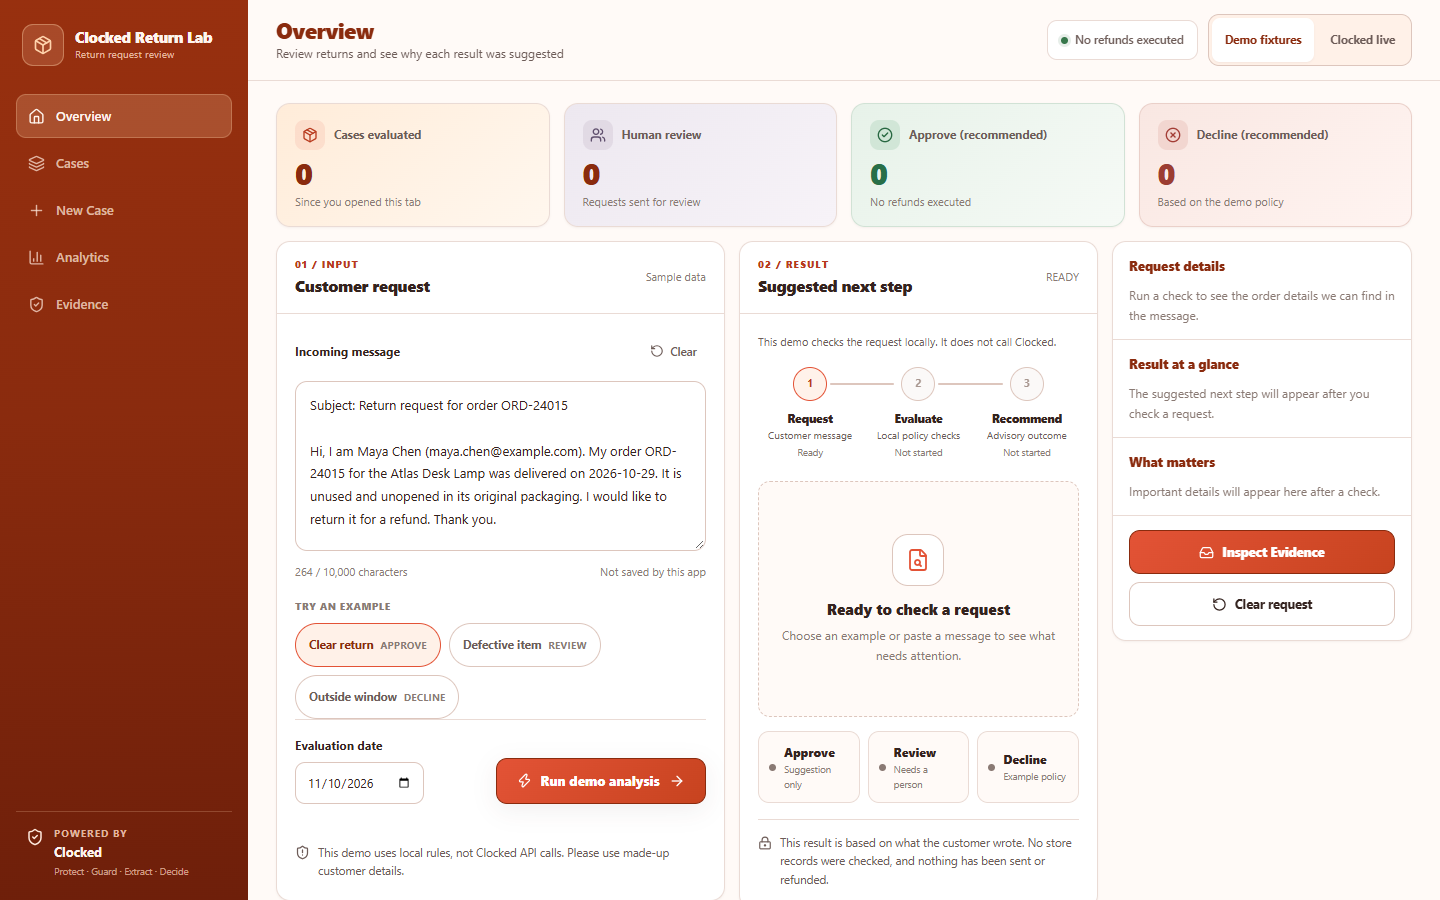
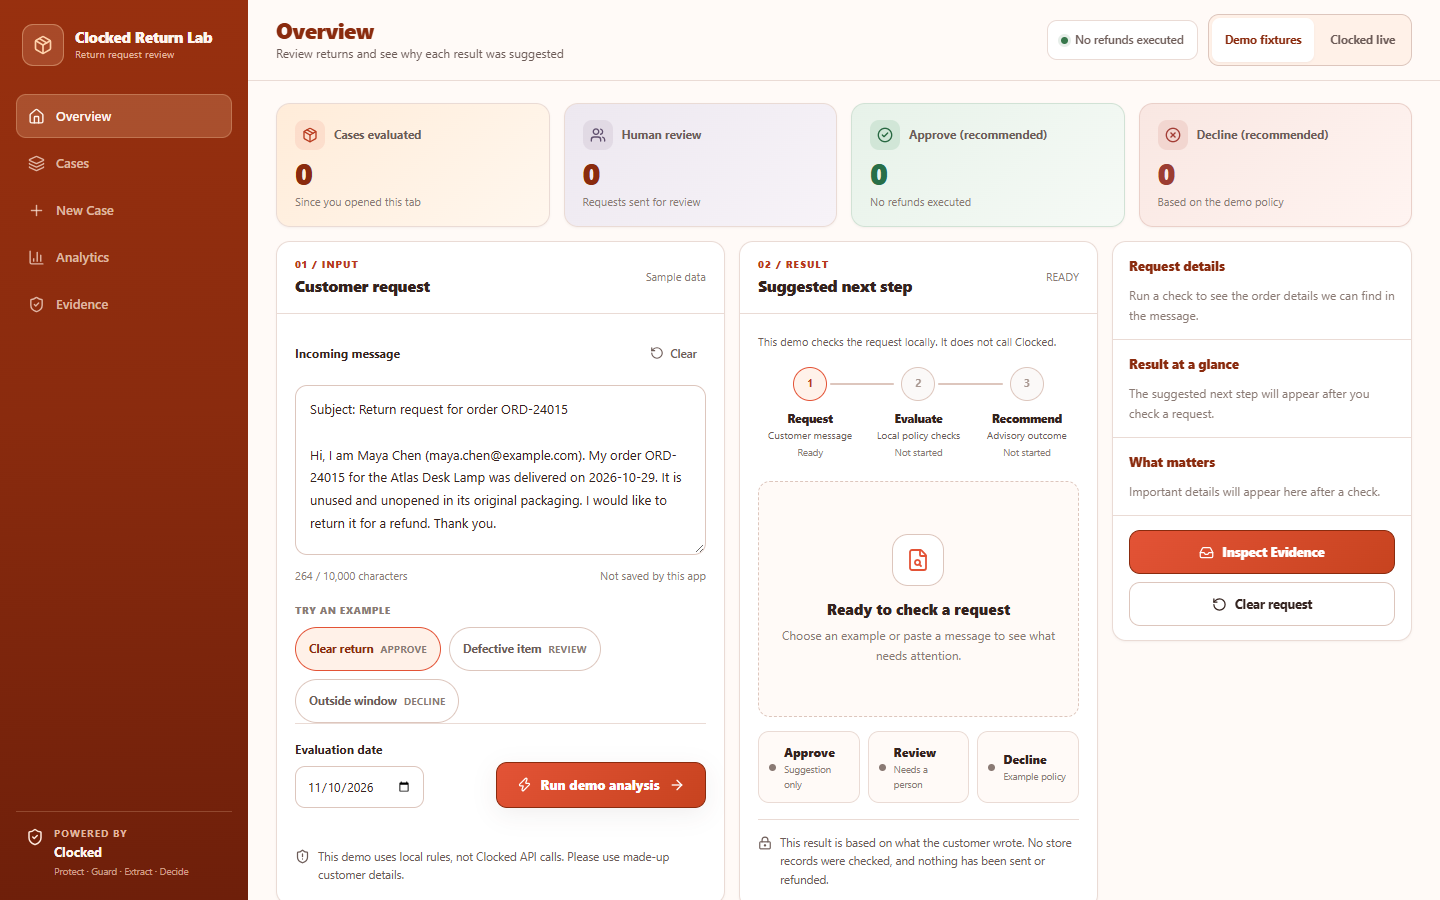
Read labelled requests from the shared table and fix final UI gaps
- Accept 'Request: <phrase>' when the value is a recognised refund request, matching the same phrase table used everywhere else.
- Raise the small Clear control to a 44px touch target and include it in the UI audit selector.
- Bring a failed analysis message into view so a blocked live request or server error cannot be missed.
- Refresh the release report, release notes and public screenshots for the verified build.

diff --git a/app/page.tsx b/app/page.tsx
@@ -97,6 +97,7 @@ export default function Home() {
   const sequence = useRef(0);
   const pending = useRef<AbortController | null>(null);
   const outputRef = useRef<HTMLElement | null>(null);
+  const errorRef = useRef<HTMLParagraphElement | null>(null);
 
   useEffect(() => {
     const frame = window.requestAnimationFrame(() => {
@@ -119,6 +120,16 @@ export default function Home() {
     });
     return () => window.cancelAnimationFrame(frame);
   }, [requestEpoch, result]);
+  // Bring a failure into view on desktop too, so a blocked live request or a
+  // server error cannot be missed below the fold.
+  useEffect(() => {
+    if (!error || !errorRef.current) return;
+    const frame = window.requestAnimationFrame(() => {
+      const reduced = window.matchMedia("(prefers-reduced-motion: reduce)").matches;
+      errorRef.current?.scrollIntoView({ behavior: reduced ? "instant" : "smooth", block: "center" });
+    });
+    return () => window.cancelAnimationFrame(frame);
+  }, [error]);
 
   function invalidate() {
     sequence.current++;
@@ -401,7 +412,7 @@ export default function Home() {
                 <div aria-live="polite" aria-atomic="true" role="status" className="run-note">
                   {busy ? "Checking this message. No refund will be issued." : result ? "Analysis complete. The recommendation is " + (detailLane?.title ?? "") + "." : ""}
                 </div>
-                {error && <p role="alert" className="error-box">{error}</p>}
+                {error && <p ref={errorRef} role="alert" className="error-box">{error}</p>}
                 <p className="caveat"><ShieldAlert size={15} style={{ flexShrink: 0, marginTop: 1 }} aria-hidden="true" />
                   {mode === "live"
                     ? "Live requests may cost Clocked credits. Dates come from the server, and personal-data masking is not perfect. Use only data you have permission to send."

diff --git a/lib/statement-coverage.ts b/lib/statement-coverage.ts
@@ -1,4 +1,4 @@
-import { refundStatementPatterns } from "./refund-intent";
+import { isRefundRequestStatement, refundStatementPatterns } from "./refund-intent";
 import { isRecognizedSyntheticProductName } from "./synthetic-product-catalog";
 
 /**
@@ -63,7 +63,17 @@ export function checkSafeStatementCoverage(text: string): CoverageAssessment {
     .replace(/\s+/g, " ").trim()).filter(Boolean);
   let unknownCount = 0;
   for (const statement of statements) {
-    if (hasEmbeddedComplaint(statement) || !SAFE.some(pattern => pattern.test(statement))) unknownCount++;
+    if (hasEmbeddedComplaint(statement) || !isSafeStatement(statement)) unknownCount++;
   }
   return { unknownCount, totalStatements: statements.length };
+}
+
+// A labelled request line ("Request: I would like a refund") is the same phrase
+// as the bare sentence. Read the value from the shared phrase table instead of
+// keeping a second, narrower list. Any other labelled value stays unclassified.
+const LABELLED_REQUEST = /^request\s*:\s*(.+)$/i;
+function isSafeStatement(statement: string): boolean {
+  if (SAFE.some(pattern => pattern.test(statement))) return true;
+  const labelled = statement.match(LABELLED_REQUEST);
+  return Boolean(labelled && isRefundRequestStatement(labelled[1].trim()));
 }

diff --git a/tests/final-remediation.test.ts b/tests/final-remediation.test.ts
@@ -113,6 +113,23 @@ describe("labelled delivery dates", () => {
     expect(result.lane).toBe("approve");
   });
 
+  it("reads a labelled request line through the shared phrase table", () => {
+    const lines = (request: string) => [
+      "Order ORD-24015",
+      "Product: Atlas Desk Lamp",
+      "Delivered: 2026-10-28",
+      "Delivery date: 2026-10-28",
+      "Condition: unused and unopened",
+      request,
+    ].join("\n");
+    const accepted = triageDemo(lines("Request: I would like a refund"), AS_OF);
+    expect(accepted.caseScope?.unclassifiedStatements).toBe(0);
+    expect(accepted.lane).toBe("approve");
+
+    const unrelated = triageDemo(lines("Request: send a free upgrade"), AS_OF);
+    expect(unrelated.lane).toBe("review");
+  });
+
   it("keeps date safety checks intact", () => {
     expect(triageDemo(sentence("was delivered on 2027-01-02"), AS_OF).lane).toBe("review");
     expect(triageDemo(sentence("was delivered on 2026-02-31"), AS_OF).lane).toBe("review");

diff --git a/app/globals.css b/app/globals.css
@@ -195,7 +195,7 @@ button, input, textarea { font: inherit; }
 .header-meta { display: inline-flex; align-items: center; gap: 6px; font-size: 11px; color: var(--ink-3); }
 .field-label { display: block; font-size: 12px; font-weight: 700; color: var(--ink); }
 .subtle-action {
-  min-height: 40px; display: inline-flex; align-items: center; gap: 6px;
+  min-height: 44px; display: inline-flex; align-items: center; gap: 6px;
   padding: 6px 9px; font-size: 11.5px; font-weight: 600; color: var(--ink-2);
   border: 0; border-radius: 8px; background: transparent;
   transition: background-color .18s ease, color .18s ease;

diff --git a/docs/FINAL_RELEASE_AUDIT.md b/docs/FINAL_RELEASE_AUDIT.md
@@ -81,9 +81,10 @@ the new one, open the evidence details, navigate the sections and use the page
 on narrow screens.
 
 The interface was tested at widths of 320, 360, 390, 768, 1024 and 1440 pixels.
-There was no horizontal overflow and no browser JavaScript exception. The mobile
-header now occupies about 69 pixels at 320 pixels instead of the earlier heavy
-multi-row block.
+There was no horizontal overflow and no browser JavaScript exception. The mobile header now occupies about 69 pixels at 320 pixels instead of the
+earlier heavy multi-row block. Every visible control, including the small Clear
+action inside the message card, measures at least 44 pixels. The UI audit now
+includes those controls in its touch-target check.
 
 The five public screenshots were recaptured from this build on November 10,
 2026, using `scripts/capture-release-assets.mjs`.
@@ -97,7 +98,7 @@ Developer checkout and clean clone produced the same results.
 | TypeScript | Passed |
 | ESLint | Passed |
 | Production build | Passed, Next.js 16.4.5 |
-| Unit and regression tests | 970 passed in 12 files |
+| Unit and regression tests | 971 passed in 12 files |
 | Browser smoke test | Passed, including the live-disabled path |
 | UI audit | No reported issues |
 | Security checks | 22 passed |
@@ -105,7 +106,8 @@ Developer checkout and clean clone produced the same results.
 | Independent HTTP adversarial cases | 32 passed |
 | Mutation cases | 76 passed |
 | Held-out HTTP cases | 42 passed |
-| Fresh adversarial batch written after the fixes | 28 cases, no unsafe result |
+| Fresh adversarial batch written after the fixes | 38 cases, no unsafe result |
+| Browser journey checks at 320, 390, 768, 1024 and 1440 | 40 checks passed |
 | Offline Clocked pipeline harness | 2 cases, both strict matches, 8 mocked stage calls, 0 USD |
 | Production dependency audit | No vulnerabilities reported |
 | Full dependency audit | 7 moderate advisories, development dependencies only |
@@ -113,13 +115,17 @@ Developer checkout and clean clone produced the same results.
 The fresh batch includes cracked-on-arrival claims, sparking and fume reports,
 refund-or-exchange ambiguity, two orders, contradictory dates, future dates,
 unknown products, opened items, missing delivery dates, quoted old requests,
-prompt injection, duplicate charges, a 10,000-character message and transport
-abuse cases. None produced an unsafe Approve or Decline.
+prompt injection, duplicate charges, negated requests, negated hazards and
+transport abuse cases. None produced an unsafe Approve or Decline.
+
+A labelled request line (`Request: I would like a refund`) now reads from the
+same phrase table as a bare sentence. Before that fix the same wording was
+accepted in the message body and rejected in the field layout.
 
 ## Clean clone
 
 A separate clone of the branch was created in a temporary folder with no
-`.env.local`, then installed with `npm ci`. TypeScript, ESLint, the 970 tests,
+`.env.local`, then installed with `npm ci`. TypeScript, ESLint, the 971 tests,
 the production build, the browser smoke test, the UI audit, the 22 security
 checks, all four adversarial suites, the fresh batch and the offline pipeline
 harness passed. Live mode answered 503 "not configured" without contacting
@@ -143,7 +149,7 @@ repository.
 
 The video was recorded after the copy refresh, but the `demo-v6` tag points at an
 earlier commit. The tag has not been moved. See
-[RELEASE_NOTES_NEXT.md](RELEASE_NOTES_NEXT.md) for the release proposal.
+[RELEASE_NOTES_DEMO_V7.md](RELEASE_NOTES_DEMO_V7.md) for the release proposal.
 
 ## GitHub cleanup
 

diff --git a/docs/RELEASE_NOTES_DEMO_V7.md b/docs/RELEASE_NOTES_DEMO_V7.md
@@ -1,4 +1,4 @@
-# Release notes: next release (prepared, not published)
+# Release notes: demo-v7 (prepared, not published)
 
 Status: **draft**. Nothing here has been tagged, published or pushed as a
 release. Publishing needs the owner's approval.
@@ -42,13 +42,26 @@ narration.
 - The README no longer links directly into the historical audit folder, and the
   folder has its own index that explains what is historical.
 
-## Video
+## Video and subtitles
 
-The existing narrated video remains accurate for the three outcomes, the
-pipeline explanation and the labels it shows. The only visible interface change
-is tighter spacing in the mobile header and a clearer assessment label
-("Explicit refund request" instead of "Explicit return/refund intent"), which
-the video does not contradict. Recording a new video is optional.
+The existing narrated video is reused unchanged, with a version note. It was
+downloaded from the `demo-v6` release and checked against this build on
+November 10, 2026:
+
+- 107.2 seconds, 1600 x 900, MP4, with an audio track.
+- Audio decodes and the 24 subtitle cues match the narration.
+- The three recommendations, the evidence panels, the five live stages and the
+  disclosure that live mode is not run in the video all match the current
+  application and copy.
+- No credentials, personal data or internal development notes appear.
+
+The only interface differences since recording are 4 pixels of height on the
+small Clear action, tighter mobile header spacing (not visible in a 1600 x 900
+desktop recording) and the clearer assessment label, which sits in a panel the
+video keeps collapsed. Nothing the video claims is now false, so a new
+recording was not made and the old file was not renamed to pretend otherwise.
+
+Subtitles are reused unchanged from the `demo-v6` release asset.
 
 ## Known inconsistency in demo-v6 (do not move the tag)
 
@@ -56,6 +69,16 @@ The `demo-v6` tag points at commit `0bacadc`, which predates the copy refresh,
 while the video asset attached to that release was recorded after the refresh.
 The tag is therefore slightly older than the video it publishes. Do not move or
 re-tag `demo-v6`. Cut `demo-v7` from the merged remediation commit instead.
+
+## Assets for the release
+
+- Source: the final commit on the merged remediation branch (tag target).
+- `assets/dashboard.png`, `assets/approved.png`, `assets/review.png`,
+  `assets/declined.png`, `assets/mobile.png`: recaptured from that commit.
+- `clocked-return-lab-narrated-demo.mp4` and `.srt`: reused from `demo-v6`,
+  verified above.
+- Release text: this file plus `docs/FINAL_RELEASE_AUDIT.md`.
+- README and `JUDGES_START_HERE.md`: current commit.
 
 ## Still true after this release
 

diff --git a/SUBMISSION.md b/SUBMISSION.md
@@ -31,7 +31,7 @@ The narrated video shows three synthetic requests handled by local demo rules. I
 
 ## Testing and limits
 
-The latest version passed 970 unit tests, a production build, browser and mobile checks, 22 security checks, and several synthetic adversarial suites, including a fresh batch written after the last fixes. The repository also verifies from a clean clone with no private configuration.
+The latest version passed 971 unit tests, a production build, browser and mobile checks, 22 security checks, and several synthetic adversarial suites, including a fresh batch written after the last fixes. The repository also verifies from a clean clone with no private configuration.
 
 It hasn't been connected to a real store, and paid Clocked calls haven't been rerun since the recent changes. Live mode refuses to run unless the operator enables it, attests that the API key was rotated, and attests to a hard spending limit of 0.05 USD or less. The demo's 30-day return policy and product list are examples. No refunds, messages, or payments are sent.
 

diff --git a/README.md b/README.md
@@ -80,7 +80,7 @@ Without all four, the server answers with a plain "not enabled" message and neve
 
 ## What has been tested
 
-The current release passed 970 unit and regression tests, the TypeScript check, linting, and a production build. Browser tests covered desktop and mobile layouts, keyboard access, navigation, the three demo outcomes, input changes, and evidence inspection.
+The current release passed 971 unit and regression tests, the TypeScript check, linting, and a production build. Browser tests covered desktop and mobile layouts, keyboard access, navigation, the three demo outcomes, input changes, and evidence inspection.
 
 We also ran 22 security checks and several sets of synthetic adversarial cases, including a fresh batch written after the latest fixes. The production dependency audit reported no vulnerabilities on November 9, 2026. These checks help catch bugs, but they don't prove that every possible request will be handled correctly.
 

diff --git a/JUDGES_START_HERE.md b/JUDGES_START_HERE.md
@@ -44,7 +44,7 @@ After you run a case, open the panels below the result. They show the original t
 
 ## What is ready, and what isn't
 
-The synthetic demo passed 970 unit tests, browser checks, 22 security checks, and several sets of adversarial cases.
+The synthetic demo passed 971 unit tests, browser checks, 22 security checks, and several sets of adversarial cases.
 
 The app cannot verify real store orders, confirm delivery, issue refunds, or make legal decisions. The current live integration has not been retested with paid Clocked requests since the latest changes, and live mode stays disabled unless the operator specifically enables it with a rotated key and a small hard spending cap.
 
